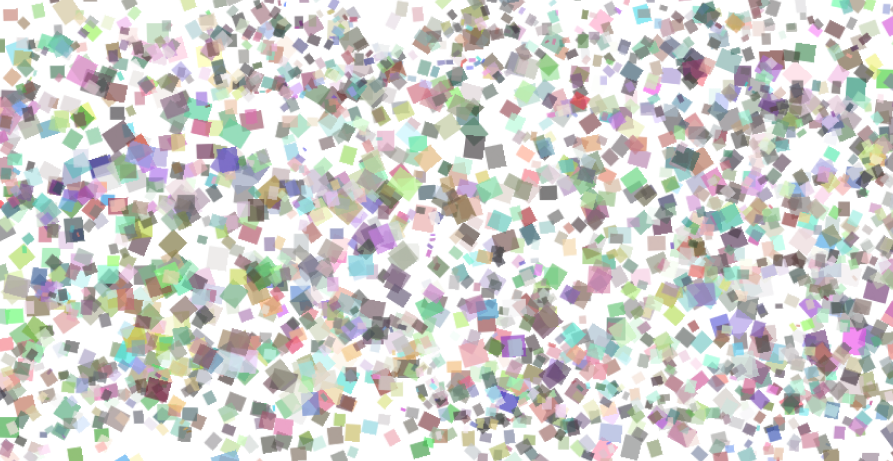
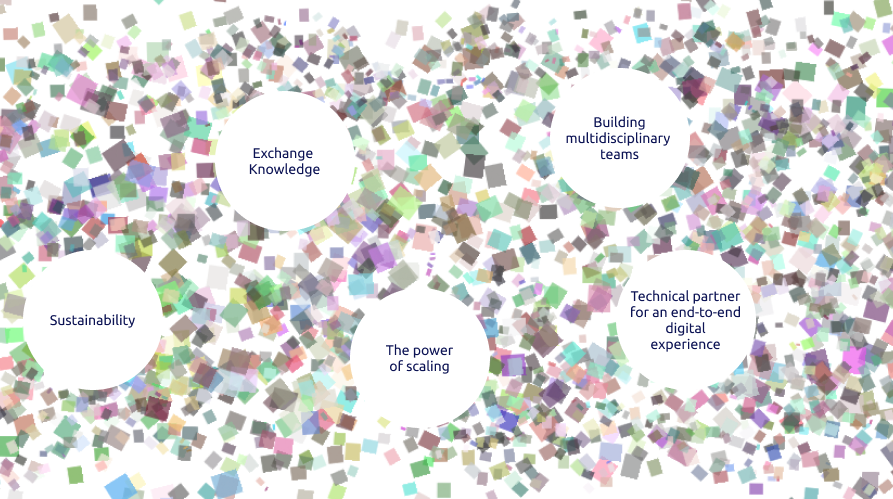
2nd island background and image bullets.

diff --git a/prototype/style.css b/prototype/style.css
@@ -177,17 +177,22 @@ Infinite > Larger screen > 1350px
 /*GENERAL CLASS > LISTS*/
 
 .main__section__list__items {
-  list-style-type: "";
-  list-style-image: url(./media/CheckList1.png);
-  padding-inline-start: 6rem;
+  /* list-style-type: "";
+  list-style-image: url(./media/CheckList1.png); */
+  padding-inline-start: 2.5rem;
+}
+
+.main__section__list__items span {
+  display: inline-block;
+  transform: translate(10px, -13px);
+  line-height: 2.5rem;
 }
 
 .main__section__list__items__item {
   font-family: var(--font-family);
   font-size: var(--font-size-standard);
   color: rgb(255, 255, 255);
-
-  margin: 1.625rem 0 0;
+  /* margin: 1.625rem 0 0; */
 }
 
 .main__section4__list__items::-webkit-scrollbar {
@@ -889,7 +894,6 @@ nav ul li a:hover {
 .main__section6__list {
   display: flex;
   flex-direction: column;
-
   max-width: 500px;
 }
 
@@ -922,11 +926,12 @@ nav ul li a:hover {
 }
 
 #specialCheck {
-  font-weight: 200;
+  font-weight: 400;
 }
 
 #specialCheck::marker {
-  content: "✓       "; /*url(./media/icon_check.png);*/
+  content: "✓       ";
+  content: url(./media/icon_check.png);
   font-size: 100%;
   vertical-align: center;
 }
@@ -968,6 +973,13 @@ nav ul li a:hover {
   max-width: 500px;
 }
 
+.main__section7__list span {
+  display: inline-block;
+  padding-top: 1.5rem;
+  line-height: 1.5rem;
+  transform: translate(10px, -5px);
+}
+
 #specialCheck2 {
   color: rgba(12, 19, 84, 1);
 }
@@ -977,7 +989,8 @@ nav ul li a:hover {
 }
 
 #specialCheck2::marker {
-  content: "✓       "; /*url(./media/icon_check.png);*/
+  /* content: "✓       "; */
+  content: url(./media/icon_check_2.png);
   font-size: 100%;
   vertical-align: center;
 }
@@ -991,7 +1004,7 @@ nav ul li a:hover {
 }
 
 .main__section__island7__content {
-  width: 500px;
+  width: 600px;
 }
 
 .main__section7__island__img {
@@ -999,7 +1012,8 @@ nav ul li a:hover {
   background-color: #ffffff;
   background-image: url(./media/Coop7.png);
   height: 100%;
-  width: 60%;
+  width: 100%;
+  background-position: center left;
   border-top-right-radius: 0.75rem;
   border-bottom-right-radius: 0.75rem;
   -webkit-mask-image: -webkit-linear-gradient(
